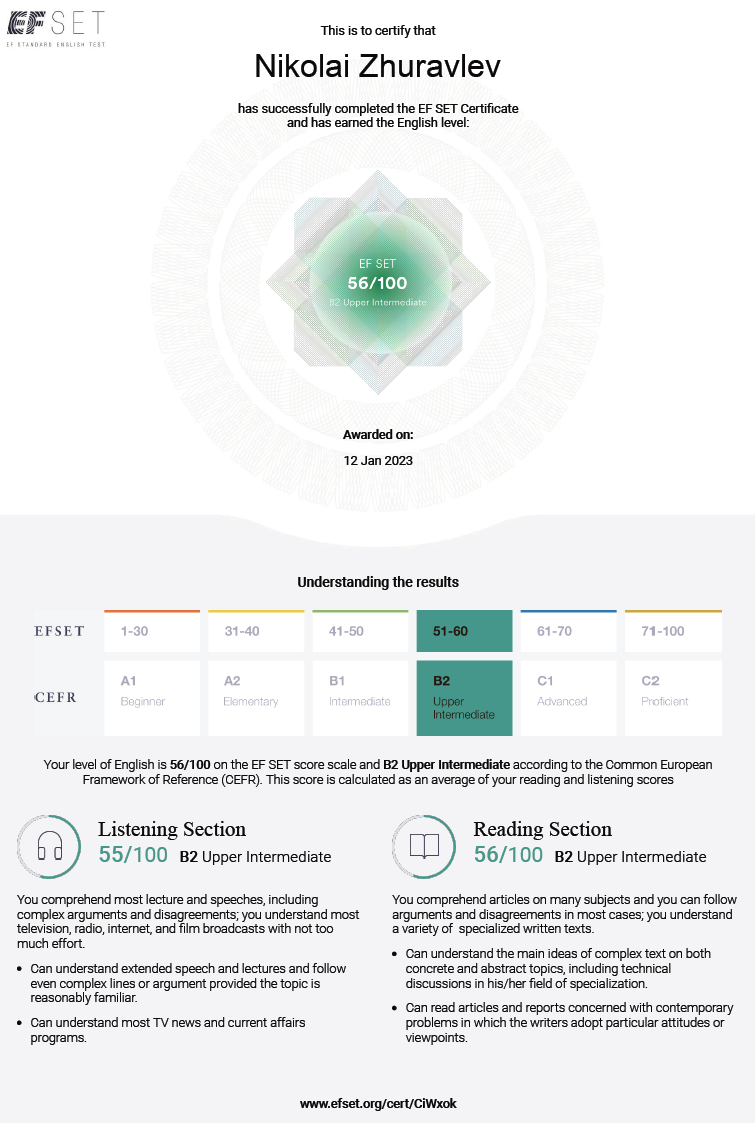
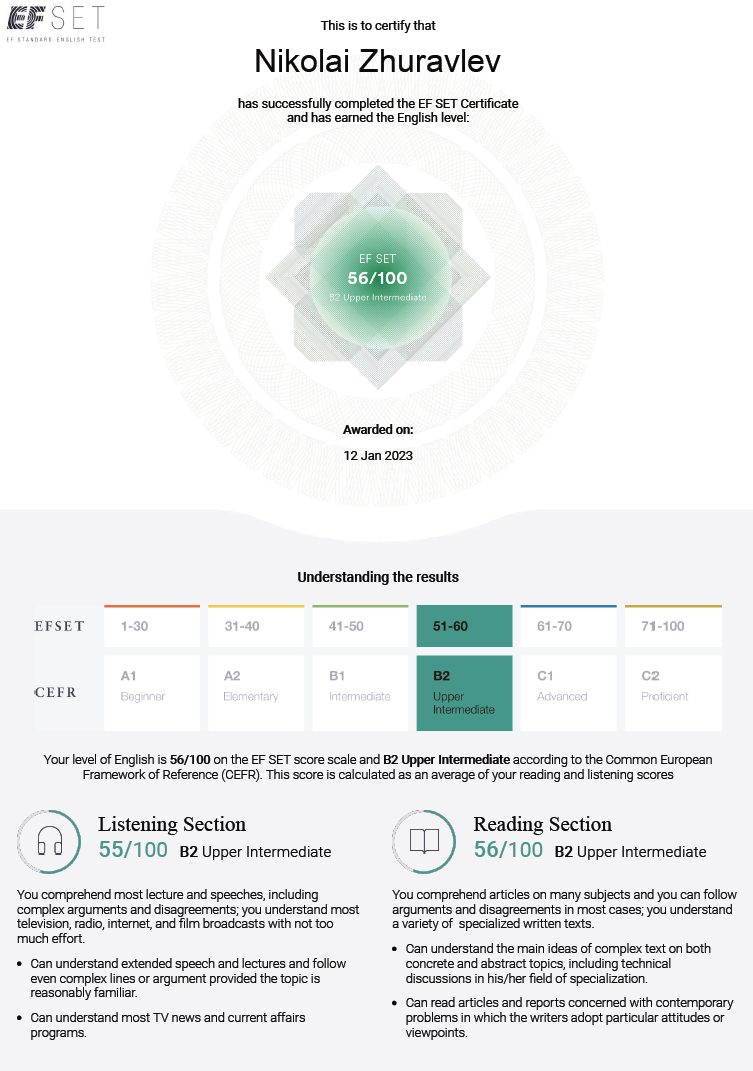
change certificates sizes

diff --git a/README.md b/README.md
@@ -33,9 +33,9 @@
 
 <h3 align="left"> Certificates and Diploma </h3>
 <p align="center"> 
-<a href="https://drive.google.com/file/d/1Ga98qPr5QC8AUFfWdyeByw9MNOGtNIDQ/view?usp=sharing"><img  alt="Brunoyam" title="Click to look closer" height="410" width="275" style="padding-left:7px" src="./Sourses/Brunoyam.png"/></a>
-<a href="https://drive.google.com/file/d/1VudplNUs8scV-xMf1p951E-lJW7szYJG/view?usp=sharing"><img  alt="Diploma" title="Click to look closer" height="410" style="padding-left:7px" src="./Sourses/Diploma.png"/></a>
-<a href="https://drive.google.com/file/d/1610hHlcI4FKtpIDYmi8QID3lRnXCpAOD/view?usp=sharing"><img  alt="EFSET" title="Click to look closer" height="410" style="padding-left:7px" src="./Sourses/EF SET.png"/></a>  
+<a href="https://drive.google.com/file/d/1Ga98qPr5QC8AUFfWdyeByw9MNOGtNIDQ/view?usp=sharing"><img  alt="Brunoyam" title="Click to look closer" height="410" width="290" style="padding-left:7px" src="./Sourses/Brunoyam.png"/></a>
+<a href="https://drive.google.com/file/d/1VudplNUs8scV-xMf1p951E-lJW7szYJG/view?usp=sharing"><img  alt="Diploma" title="Click to look closer" height="410" width="290" style="padding-left:7px" src="./Sourses/Diploma.png"/></a>
+<a href="https://drive.google.com/file/d/1610hHlcI4FKtpIDYmi8QID3lRnXCpAOD/view?usp=sharing"><img  alt="EFSET" title="Click to look closer" height="410" width="290" style="padding-left:7px" src="./Sourses/EF SET.png"/></a>  
 </p>
 
 ---
